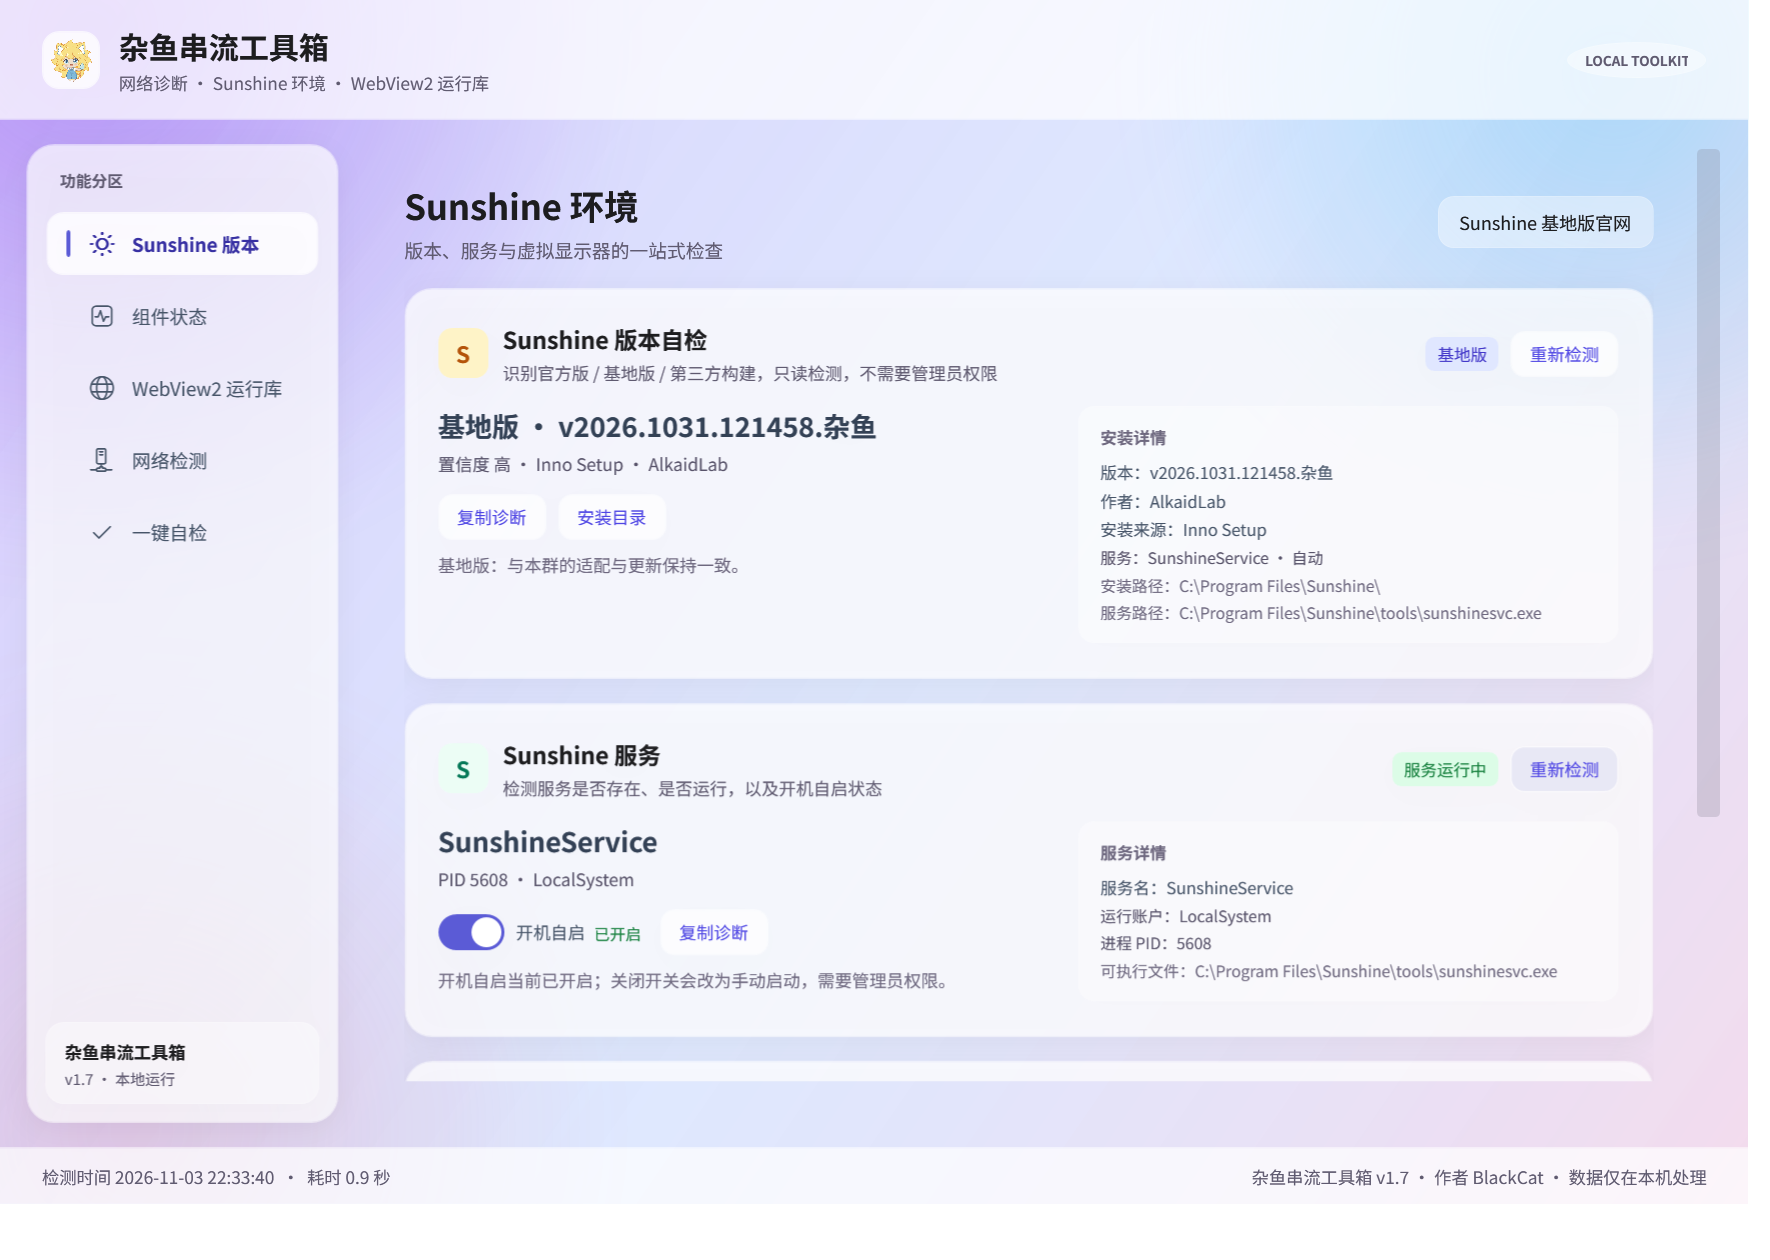
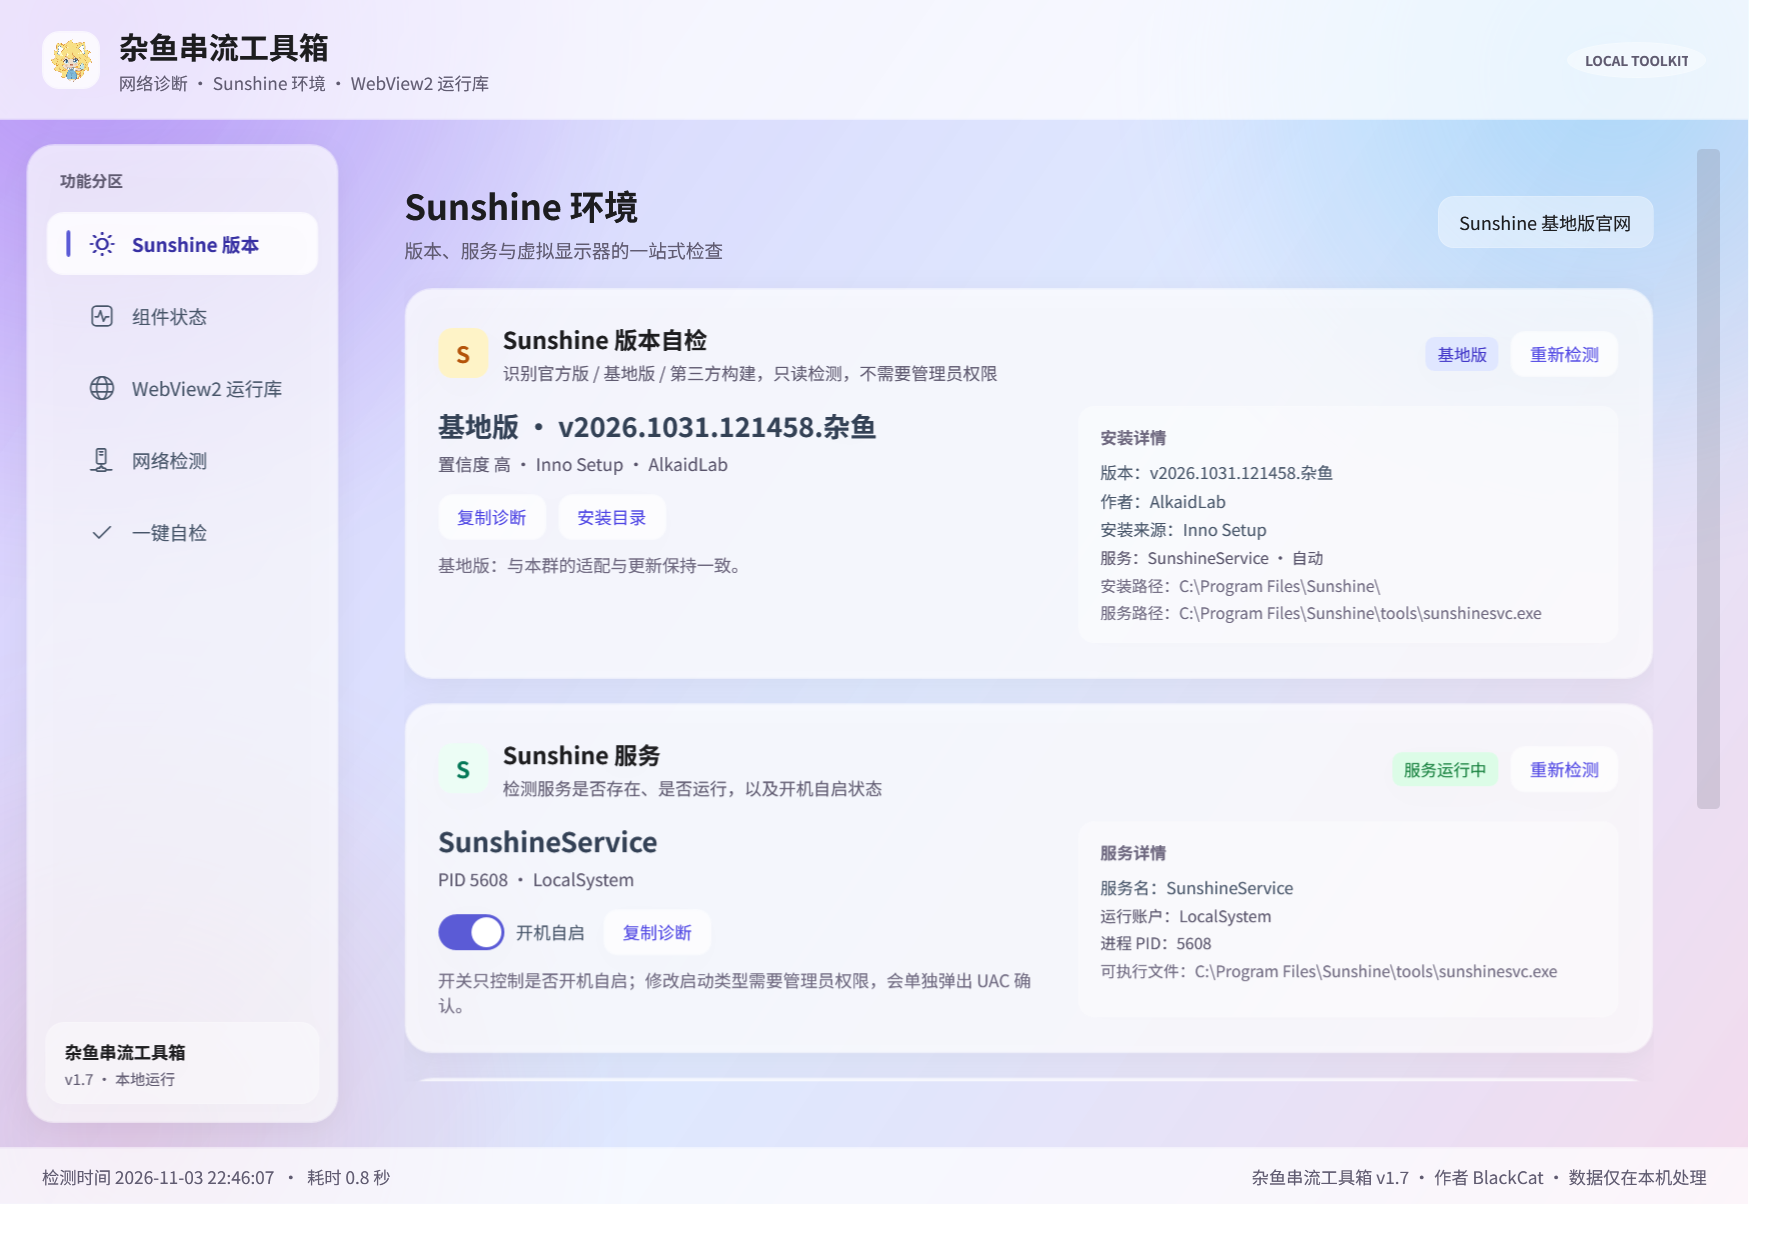
fix: 移除服务卡片重复的自启动状态文字

Changed region(s): [[0.2175, 0.7119, 0.9322, 0.8667], [0.1243, 0.9286, 0.1554, 0.9595]]

diff --git a/src/IpInfo.App/SunshineServiceCard.xaml b/src/IpInfo.App/SunshineServiceCard.xaml
@@ -49,8 +49,6 @@
                                       Click="ServiceAutoStartToggle_Click" IsEnabled="False"/>
                         <TextBlock Text="开机自启" FontSize="11.5" Foreground="#475569"
                                    VerticalAlignment="Center" Margin="8,0,0,0"/>
-                        <TextBlock x:Name="ServiceAutoStartStateText" Text="不可用" FontSize="10.5"
-                                   Foreground="#5F5A70" VerticalAlignment="Center" Margin="6,0,0,0"/>
                         <Button x:Name="ServiceCopyButton" Content="复制诊断"
                                 Style="{StaticResource CopyButton}" Margin="12,0,0,0"
                                 Click="ServiceCopyButton_Click" IsEnabled="False"/>

diff --git a/src/IpInfo.App/SunshineServiceCard.xaml.cs b/src/IpInfo.App/SunshineServiceCard.xaml.cs
@@ -177,10 +177,7 @@ namespace IpInfo.App
                 }
                 ServiceSummaryText.Text = summary.Length > 0 ? summary : "服务已安装";
 
-                if (status.IsAutoStart)
-                    ServiceHintText.Text = "开机自启当前已开启；关闭开关会改为手动启动，需要管理员权限。";
-                else
-                    ServiceHintText.Text = "开机自启当前已关闭；打开开关会改为自动启动，需要管理员权限。";
+                ServiceHintText.Text = "开关只控制是否开机自启；修改启动类型需要管理员权限，会单独弹出 UAC 确认。";
             }
 
             ServiceNameText.Text = "服务名：" + NullSafe(status.ServiceName);
@@ -194,21 +191,6 @@ namespace IpInfo.App
             _syncingToggle = true;
             ServiceAutoStartToggle.IsChecked = status.IsAutoStart;
             _syncingToggle = false;
-            if (!status.IsFound)
-            {
-                ServiceAutoStartStateText.Text = "不可用";
-                ServiceAutoStartStateText.Foreground = UiPalette.MutedFg;
-            }
-            else if (status.IsAutoStart)
-            {
-                ServiceAutoStartStateText.Text = "已开启";
-                ServiceAutoStartStateText.Foreground = UiPalette.SuccessFg;
-            }
-            else
-            {
-                ServiceAutoStartStateText.Text = "已关闭";
-                ServiceAutoStartStateText.Foreground = UiPalette.MutedFg;
-            }
 
             List<string> warnings = new List<string>();
             if (status.Warnings != null)

diff --git a/CHANGELOG.md b/CHANGELOG.md
@@ -41,7 +41,7 @@
   - DualSense 从基地版官方 Release 清单下载组件包，显示下载进度、速度和剩余时间，校验 SHA-256 后安装；
   - 修复 / 卸载前二次确认，需要管理员权限时弹出 UAC；
   - 其他组件暂不开放破坏性操作。
-- Sunshine 服务卡片去掉重复状态展示：右上角明确标注「服务运行中 / 服务已停止」，大标题改为服务名，开机自启只由开关和「已开启 / 已关闭」表达。
+- Sunshine 服务卡片去掉重复状态展示：右上角明确标注「服务运行中 / 服务已停止」，大标题改为服务名，开机自启只由开关本身表达，不再额外显示「已开启」。
 
 ### 构建与测试
 
